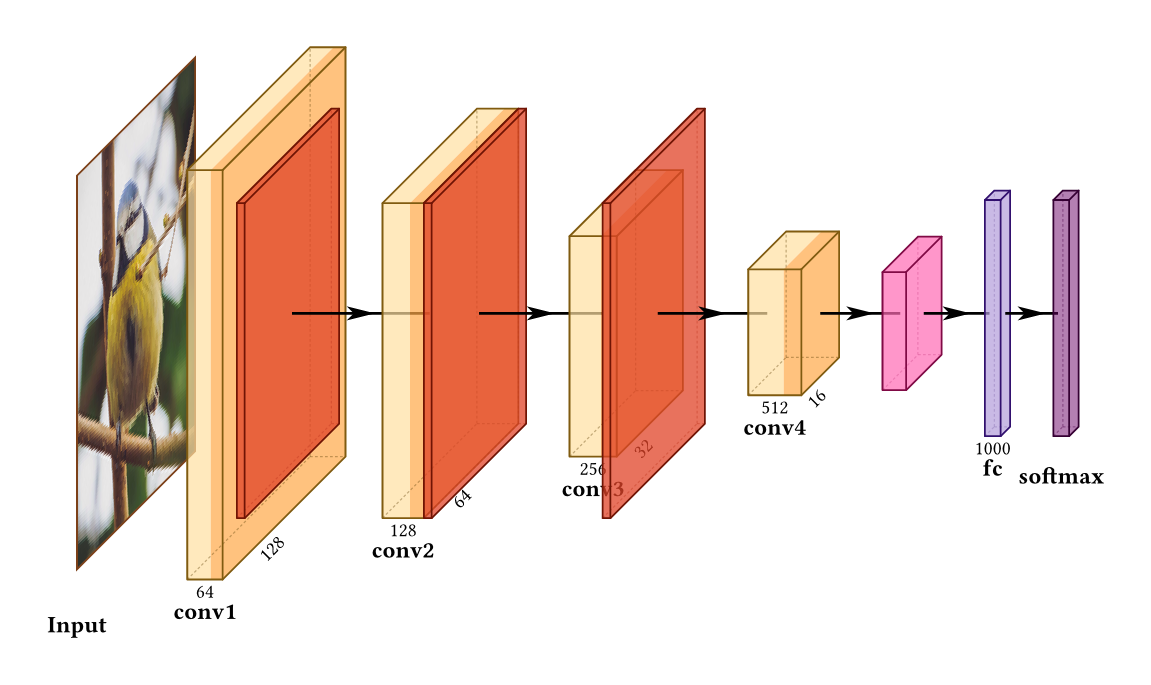
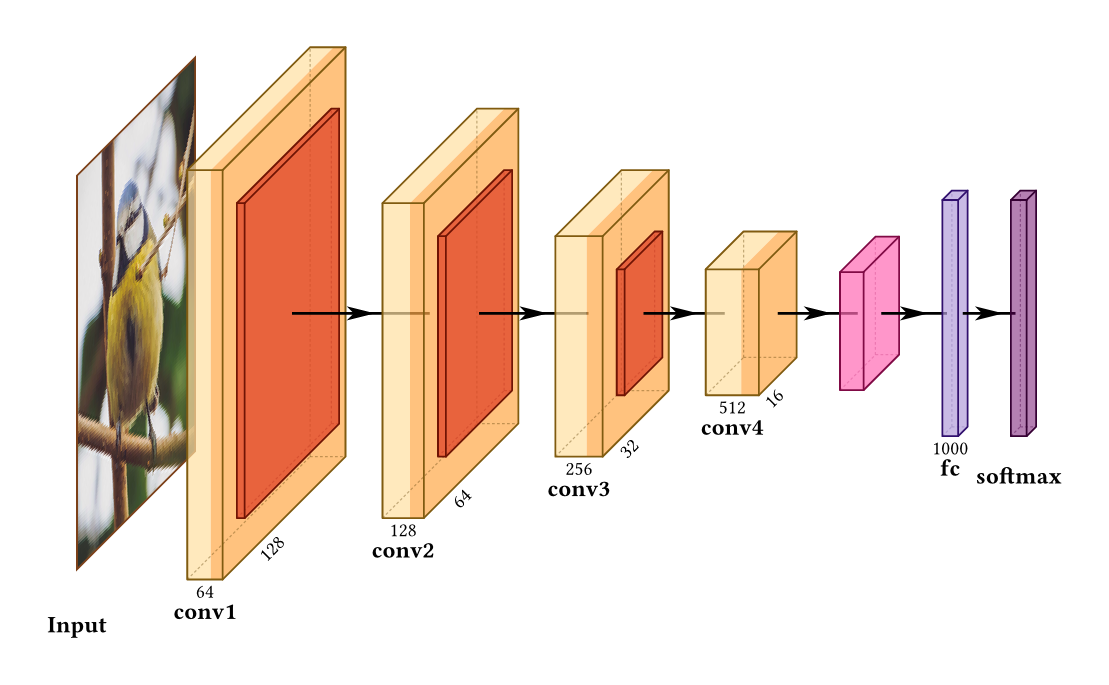
Redraw flat overview figures with a semantic shape vocabulary
Glyph now carries meaning before the label is read: trapezoid for
resolution change, bar for bottleneck, stacked planes for batched data.
Also fixes pool sizing in the CNN figure and records that downsample
layers should infer their size from the block they feed.

Changed region(s): [[0.0613, 0.0613, 0.9504, 0.9197], [0.0307, 0.8891, 0.092, 0.9504]]

diff --git a/design/FINDINGS.md b/design/FINDINGS.md
@@ -108,6 +108,56 @@ least-solved part of the sketches.
 
 - [ ] Anchor model for magnification callouts
 
+## 10. A downsample layer should infer its size from the block it feeds
+
+The first draft of figure 1 wrote `pool(name: "p1")` with no shape, so the pool
+fell back to a fixed default size and was drawn visibly taller than the conv it
+fed. Verified in isolation: passing `pool(shape: (64, 64, 64))` next to
+`conv(shape: (128, 64, 64))` renders them at identical height and depth, so the
+library is correct and the example was wrong.
+
+But requiring the restatement is the bug. A pool's output spatial size IS the
+next block's input spatial size, always. Making the author write it twice
+invites exactly the drift the shape system exists to prevent, and the silent
+fallback to a default means getting it wrong looks plausible rather than
+obviously broken.
+
+- [ ] `pool`/`unpool` with no shape infer spatial size from the adjacent block
+- [ ] Consider warning rather than silently defaulting when a downsample sits
+      between two blocks whose shapes disagree with it
+
+## 11. Shape must carry meaning in the flat view
+
+The first draft of figure 2 drew every block as an identical rectangle, so the
+figure said nothing until each label was read. Rendering neural-viz for
+comparison (`ref-neural-viz.typ`) made the contrast obvious: its palette is
+poor and its arrowheads are open barbs, but its glyphs are semantic — a
+trapezoid reads as "downsamples" before you read a word.
+
+The vocabulary the second draft settled on:
+
+| glyph | meaning | typical blocks |
+| --- | --- | --- |
+| narrowing trapezoid | reduces resolution | backbone, encoder, downsample |
+| widening trapezoid | raises resolution | decoder, upsample |
+| thin vertical bar | bottleneck | latent, neck, embedding |
+| stacked planes | batched data | dataset, image input, output set |
+| rectangle | structure-preserving | head, generic op |
+| circle | elementwise | sum, product, gate |
+
+Two consequences. The glyph should DEFAULT from the layer type wherever the type
+implies one — pool and strided conv are downsamples, deconv and unpool are
+upsamples, gap is a bottleneck — so `role:` is only reached for on a generic
+`block()`. And under option B below, the glyph can be **derived**: if the
+library can see the collapsed run goes 320 to 80, it knows to draw a narrowing
+trapezoid without being told.
+
+That last point is a real argument for B over A.
+
+- [ ] Implement the glyph set above
+- [ ] Default `role:` from layer type
+- [ ] Derive the glyph from collapsed shape change where possible
+
 ---
 
 ## The open decision: where does detail come from?
